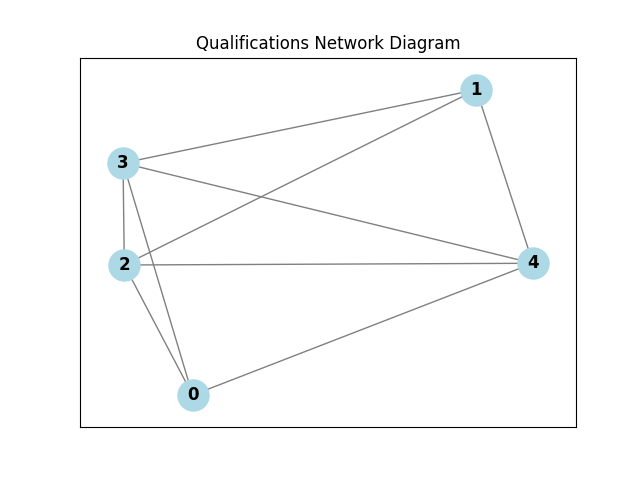
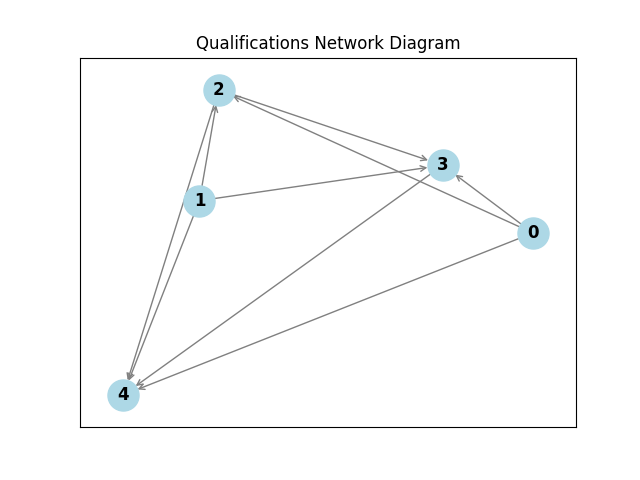
Done

diff --git a/Q33.py b/Q33.py
@@ -1,0 +1,69 @@
+
+import networkx as nx
+import matplotlib.pyplot as plt
+
+def create_network_diagram(n, flights):
+    G = nx.DiGraph()  # Use DiGraph instead of Graph to indicate the direction of flights
+
+    # Add nodes to the graph representing airport sites
+    for i in range(n):
+        G.add_node(i, label=f"Airport {i}")
+
+    # Add edges based on the flights
+    for flight in flights:
+        G.add_edge(flight[0], flight[1])
+
+    return G
+
+def build_service_facility(n, m, costs, flights):
+    selected_sites = set()
+    unserved_flights = set()
+
+    for flight in flights:
+        unserved_flights.add(flight[0])
+        unserved_flights.add(flight[1])
+
+    sorted_sites = sorted(range(n), key=lambda i: costs[i])
+
+    for site in sorted_sites:
+        if not unserved_flights:
+            break
+
+        site_covers_flight = False
+
+        for flight in flights:
+            if flight[0] == site or flight[1] == site:
+                site_covers_flight = True
+                unserved_flights.discard(flight[0])
+                unserved_flights.discard(flight[1])
+
+        if site_covers_flight:
+            selected_sites.add(site)
+
+    return selected_sites
+
+# Example usage
+n = 5
+flights = [
+    [0, 1], # Flight from airport 0 to 1
+    [1, 2], # Flight from airport 1 to 2
+    [2, 3], # Flight from airport 2 to 3
+    [3, 4], # Flight from airport 3 to 4
+    [4, 0], # Flight from airport 4 to 0
+    [2, 0]  # Flight from airport 2 to 0
+]
+
+# Create the network diagram
+G = create_network_diagram(n, flights)
+
+# Draw the network diagram with arrows
+pos = nx.spring_layout(G)
+nx.draw_networkx(G, pos, with_labels=True, node_size=500, node_color='lightblue', font_size=12, font_weight='bold', edge_color='gray', arrows=True, arrowstyle='->', arrowsize=10)
+plt.title("Airport Network Diagram")
+plt.show()
+
+# Build the service facility
+m = len(flights)
+costs = [10, 5, 8, 12, 7]
+selected_sites = build_service_facility(n, m, costs, flights)
+print("Selected Sites:", selected_sites)

diff --git a/Q22.py b/Q22.py
@@ -4,7 +4,7 @@ import matplotlib.pyplot as plt
 from itertools import combinations
 
 def create_network_diagram(n, m, qualifications, k):
-    G = nx.Graph()
+    G = nx.DiGraph()  # Use DiGraph instead of Graph to indicate the direction of edges
 
     # Add nodes to the graph representing applicants
     for i in range(m):
@@ -19,9 +19,20 @@ def create_network_diagram(n, m, qualifications, k):
                 break
         if sports_covered:
             for u, v in combinations(comb, 2):
-                G.add_edge(u, v)
+                G.add_edge(u, v)  # Add directed edge from u to v
 
     return G
+
+def hire_counselors(n, m, qualifications, k):
+    for comb in combinations(range(m), k):
+        sports_covered = set(range(n))
+        for applicant in comb:
+            sports_covered &= set(i for i, qualified in enumerate(qualifications[applicant]) if qualified)
+            if not sports_covered:
+                break
+        if sports_covered:
+            return True
+    return False
 
 # Example usage
 n = 3
@@ -38,8 +49,12 @@ k = 3
 # Create the network diagram
 G = create_network_diagram(n, m, qualifications, k)
 
-# Draw the network diagram
+# Draw the network diagram with arrows
 pos = nx.spring_layout(G)
-nx.draw_networkx(G, pos, with_labels=True, node_size=500, node_color='lightblue', font_size=12, font_weight='bold', edge_color='gray')
+nx.draw_networkx(G, pos, with_labels=True, node_size=500, node_color='lightblue', font_size=12, font_weight='bold', edge_color='gray', arrows=True, arrowstyle='->', arrowsize=10)
 plt.title("Qualifications Network Diagram")
 plt.show()
+
+# Hire counselors
+result = hire_counselors(n, m, qualifications, k)
+print("Hire counselors:", result)

diff --git a/Q44.py b/Q44.py
@@ -1,0 +1,60 @@
+
+import networkx as nx
+import matplotlib.pyplot as plt
+
+def create_network_diagram(n, rewards, conflicts):
+    G = nx.DiGraph()
+
+    # Add nodes to the graph representing jobs
+    for i in range(n):
+        G.add_node(i, reward=rewards[i])
+
+    # Add edges based on the conflicts
+    for i in range(n):
+        for j in range(i):  # Consider only the lower triangular part of the conflicts matrix
+            if conflicts[i][j]:
+                G.add_edge(j, i)  # Reverse the direction of the edge
+
+    return G
+
+def find_maximum_reward(n, rewards, conflicts):
+    DP = [0] * (n + 1)
+
+    for i in range(1, n + 1):
+        DP[i] = max(DP[i - 1], DP[i - 2] + rewards[i - 1])
+
+    selected_jobs = set()
+    i = n
+
+    while i > 0:
+        if i == n or conflicts[i - 2][i - 1]:
+            selected_jobs.add(i - 1)
+            i -= 2
+        else:
+            i -= 1
+
+    return selected_jobs
+
+# Example usage
+n = 5
+rewards = [10, 15, 5, 8, 12]
+conflicts = [
+    [False, True, False, True, False],
+    [True, False, True, False, True],
+    [False, True, False, True, False],
+    [True, False, True, False, True],
+    [False, True, False, True, False]
+]
+
+# Create the network diagram
+G = create_network_diagram(n, rewards, conflicts)
+
+# Draw the network diagram with arrows
+pos = nx.spring_layout(G)
+nx.draw_networkx(G, pos, with_labels=True, node_size=500, node_color='lightblue', font_size=12, font_weight='bold', edge_color='gray', arrows=True, arrowstyle='->', arrowsize=10)
+plt.title("Job Network Diagram")
+plt.show()
+
+# Find the maximum reward jobs
+selected_jobs = find_maximum_reward(n, rewards, conflicts)
+print("Selected Jobs:", selected_jobs)
